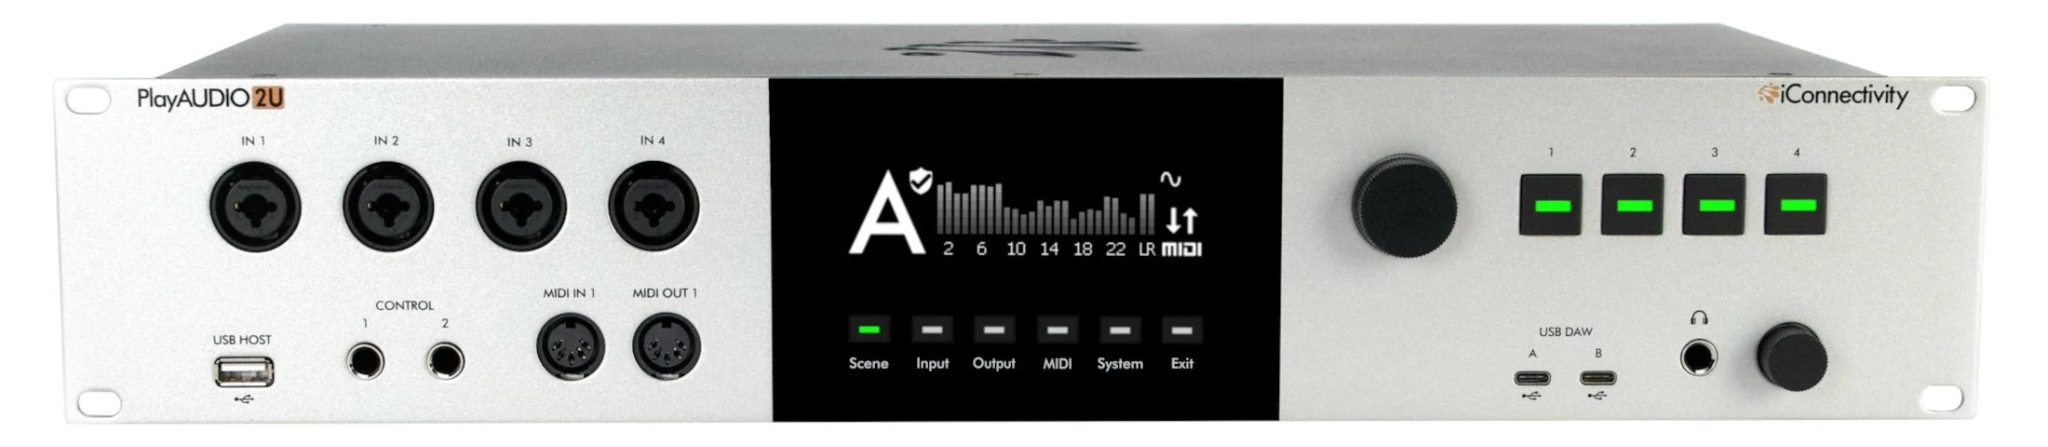
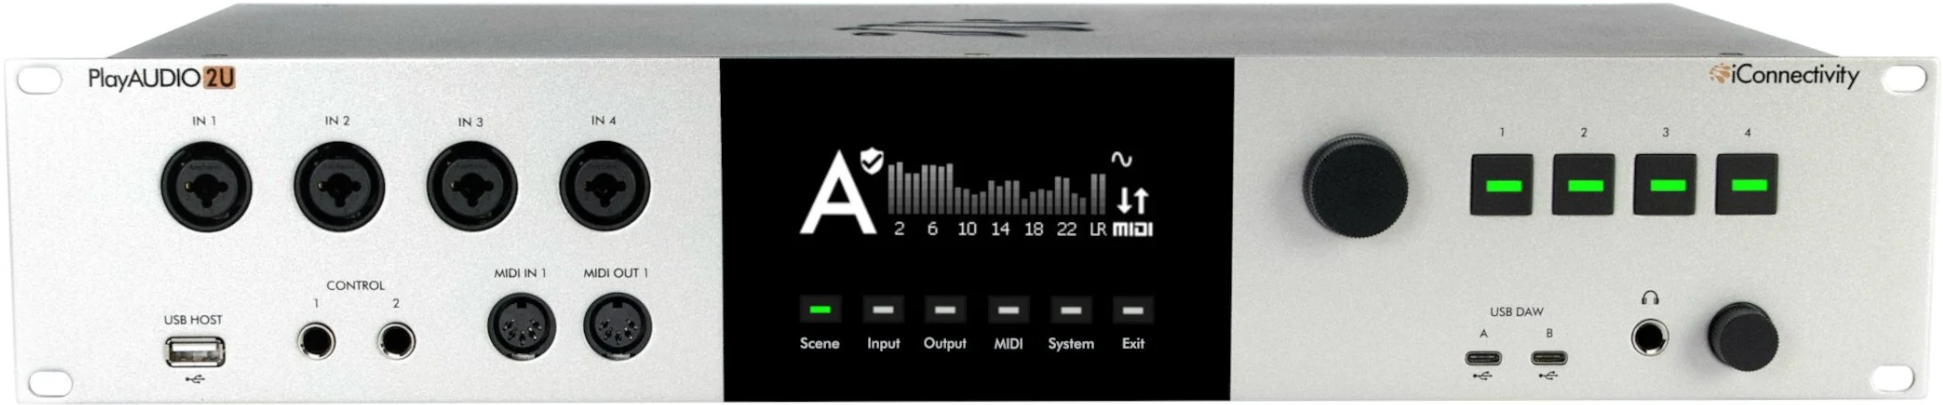
2U edits

diff --git a/guides/playaudio2u/playaudio2u-user-guide-2026.md b/guides/playaudio2u/playaudio2u-user-guide-2026.md
@@ -1,7 +1,7 @@
 # PlayAUDIO2U User Guide
 
 ## Introduction
-![PlayAUDIO2U](images/000-product/2u-main.png)
+<img src="images/pa2u-main.png" width="800" alt="PlayAUDIO2U Audio MIDI interface">
 
 Congratulations on the purchase of your new PlayAUDIO2U USB Audio & MIDI interface!
 
